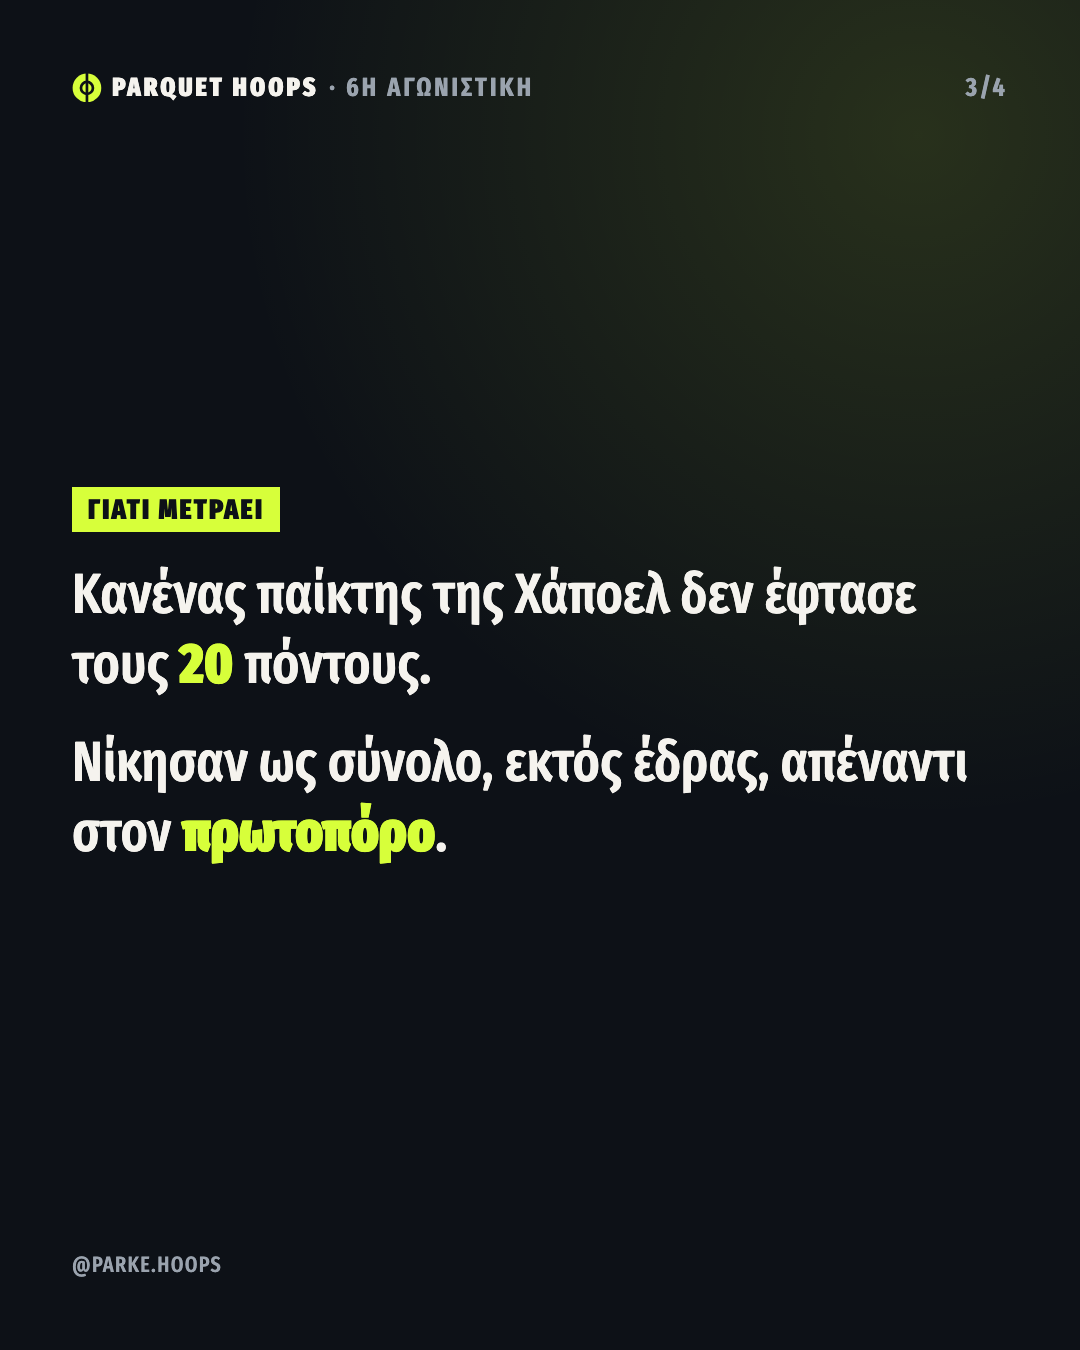
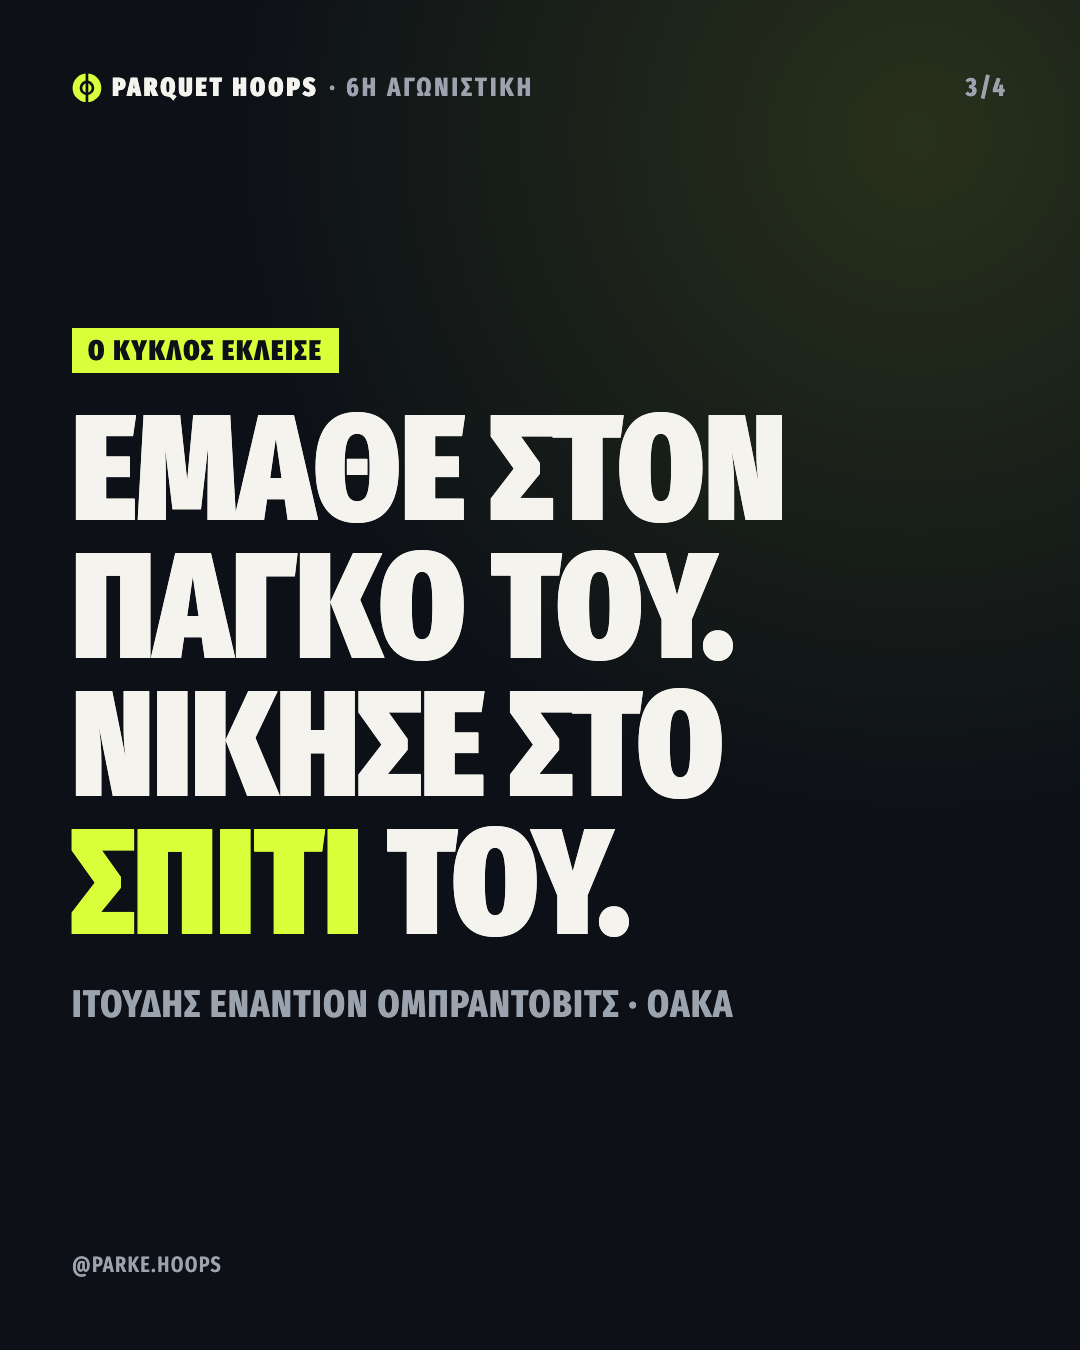
Voice: vivid storytelling instead of analysis
Round 6 slide 3 is now a second narrative punch ('Learned on his bench.
Won in his house.') instead of 'Why it matters'; captions rewritten in
short, dramatic beats. CLAUDE.md gains a Voice section so the daily
routine writes this way.

Changed region(s): [[0.0611, 0.2178, 0.9167, 0.7778]]

diff --git a/CLAUDE.md b/CLAUDE.md
@@ -18,7 +18,14 @@ Prefer the story with the strongest *narrative*, not just the biggest number. Us
 
 ## Channel style
 **X**: 280 characters or fewer, punchy hook on the first line, 3–4 stat lines, one hashtag `#EuroLeague` plus at most one club tag. No emoji spam (2 at most).
-**Instagram**: a carousel of 3–5 slides. Slide 1 is a big hook and the name; slide 2 is the stat card; slide 3 is context or "why it matters"; the last slide is "Also in Round N". The caption opens with a hook, then 3–5 short lines and a question to drive comments, followed by 8–12 hashtags at the end.
+**Instagram**: a carousel of 3–5 slides. Slide 1 is a big hook and the name; slide 2 is the stat card; slide 3 is a second narrative punch (a `hook` card with a big line, never a `text` card that explains); the last slide is "Also in Round N". The caption opens with a hook, then 3–5 short lines and a question to drive comments, followed by 8–12 hashtags at the end.
+
+## Voice: vivid, not analytical
+Tell each round like a story, the way a commentator would, not like a stats report. The model is "The student won in Athens": a headline with a character, a rivalry and a payoff.
+- Every slide and every caption line is a beat of the story: tension, turn, payoff. Use fragments and strong verbs ("5-0. Unbeaten. At home." / "Leday dropped 17.").
+- Numbers back the story up; they are never the point. No stat-trivia lines like "No player scored 20" or "They shot 48% from three".
+- No explainer kickers or slides: no "Why it matters", "Context", "Key stat", "The numbers".
+- Lean on drama the data supports: unbeaten runs ending, comebacks, overtime, road wins, rivalries, a coach facing his old club or mentor.
 
 ## Languages
 Live: English (`post.en.md`), Greek (`post.el.md`). Planned markets, roughly by EuroLeague audience: Greek (el), Spanish (es), Turkish (tr), Serbian (sr), Lithuanian (lt), Hebrew (he), Italian (it), French (fr), German (de). Localize, don't translate. For each market, pick the angle that matters there. For example, Greek accounts lead with Olympiacos and Panathinaikos stories, and Turkish accounts with Fenerbahce, Efes and Besiktas.

diff --git a/rounds/E2026/round-06/post.en.md b/rounds/E2026/round-06/post.en.md
@@ -1,5 +1,8 @@
 # Round 6 (Oct 15–16, 2026): COACH, Dimitris Itoudis (Hapoel Tel Aviv)
 
+## Facts to verify
+- Itoudis spent years as Obradovic's assistant (at Panathinaikos) before becoming a head coach. Used on slide 3 and in the caption.
+
 **Why this story:** Panathinaikos were the only unbeaten team (5-0). Hapoel won 91-81 in Athens without anyone scoring 20. Micic ran the game (8 ast, +15), and five players shared the load. Itoudis spent years on Obradovic's bench before becoming a head coach, so this is the student beating the teacher in his own arena.
 
 Runners-up: Vezenkov 38 PIR (MVP) · Maccabi (1-4) winning 91-88 at Valencia (4-1) (underdog)
@@ -31,8 +34,9 @@ PANATHINAIKOS 81 – 91 HAPOEL TEL AVIV
 Panathinaikos before: 5-0 → first loss
 Leday 17 · Bryant 14 · Micic 9 pts / 8 ast / +15
 
-**Slide 3 (why it matters):**
-No Hapoel player scored 20. They won as a system, on the road, against the league leader.
+**Slide 3 (full circle):**
+LEARNED ON HIS BENCH. WON IN HIS HOUSE.
+Itoudis vs Obradovic · OAKA
 
 **Slide 4 (also in Round 6):**
 🔥 Vezenkov: 38 PIR, 25 pts, 10/10 FT, OT win at Barça
@@ -41,14 +45,16 @@ No Hapoel player scored 20. They won as a system, on the road, against the leagu
 
 ## Instagram caption
 
-Panathinaikos came into Round 6 as the only unbeaten team in the EuroLeague.
+5-0. Unbeaten. At home.
 
-Dimitris Itoudis walked into Telekom Center and left with a 91-81 win.
+Then Dimitris Itoudis walked into OAKA.
 
-No 20-point scorer. Just Micic running the show (8 assists, +15), Leday with 17 and Bryant with 14.
+Micic ran the show: 8 assists, +15. Leday dropped 17. Bryant added 14.
 
-The student beat the teacher in his own house. 👀
+91-81. Panathinaikos' perfect start: gone.
 
-Who stops Hapoel next? 👇
+He grew up as a coach on Obradovic's bench. This time, he beat him in his own house. 🔥
+
+Who stops Hapoel now? 👇
 
 #EuroLeague #Hapoel #HapoelTelAviv #Itoudis #Panathinaikos #Micic #Basketball #EuroLeagueBasketball #Basket #BasketballEurope

diff --git a/rounds/E2026/round-06/post.el.md b/rounds/E2026/round-06/post.el.md
@@ -1,5 +1,8 @@
 # 6η αγωνιστική: ΠΡΟΠΟΝΗΤΗΣ, Δημήτρης Ιτούδης (Χάποελ Τελ Αβίβ)
 
+## Facts to verify
+- Itoudis spent years as Obradovic's assistant (at Panathinaikos) before becoming a head coach. Used on slide 3 and in the caption.
+
 Same story as the English post. How it's localized: "ΟΑΚΑ" instead of "Telekom Center", the student and teacher angle (Itoudis and Obradovic at Panathinaikos is a story every Greek fan knows), and Vezenkov added to the caption for Olympiacos fans.
 
 Cards: `cards/el/ig-1..4.png` (Instagram), `cards/el/x.png` (X)
@@ -22,13 +25,15 @@ Cards: `cards/el/ig-1..4.png` (Instagram), `cards/el/x.png` (X)
 
 ## Instagram caption
 
-Ο Παναθηναϊκός μπήκε στην 6η αγωνιστική ως η μόνη αήττητη ομάδα της EuroLeague.
+5-0. Αήττητος. Στην έδρα του.
 
-Ο Δημήτρης Ιτούδης ήρθε στο ΟΑΚΑ και έφυγε με το 91-81.
+Και τότε ο Δημήτρης Ιτούδης μπήκε στο ΟΑΚΑ.
 
-Κανένας 20άρης. Ο Μίτσιτς μοίρασε το παιχνίδι (8 ασίστ, +15), ο Λεντέι είχε 17 και ο Μπράιαντ 14.
+Ο Μίτσιτς έστησε το σόου: 8 ασίστ, +15. Ο Λεντέι έβαλε 17. Ο Μπράιαντ πρόσθεσε 14.
 
-Ο μαθητής νίκησε τον δάσκαλο στο σπίτι του. 👀
+91-81. Το τέλειο ξεκίνημα του Παναθηναϊκού τελείωσε.
+
+Μεγάλωσε προπονητικά στον πάγκο του Ομπράντοβιτς. Αυτή τη φορά τον νίκησε στο σπίτι του. 🔥
 
 Και στον Πειραιά χαμογελούν: 38 PIR για τον Βεζένκοφ στη νίκη με παράταση στη Βαρκελώνη.
 
